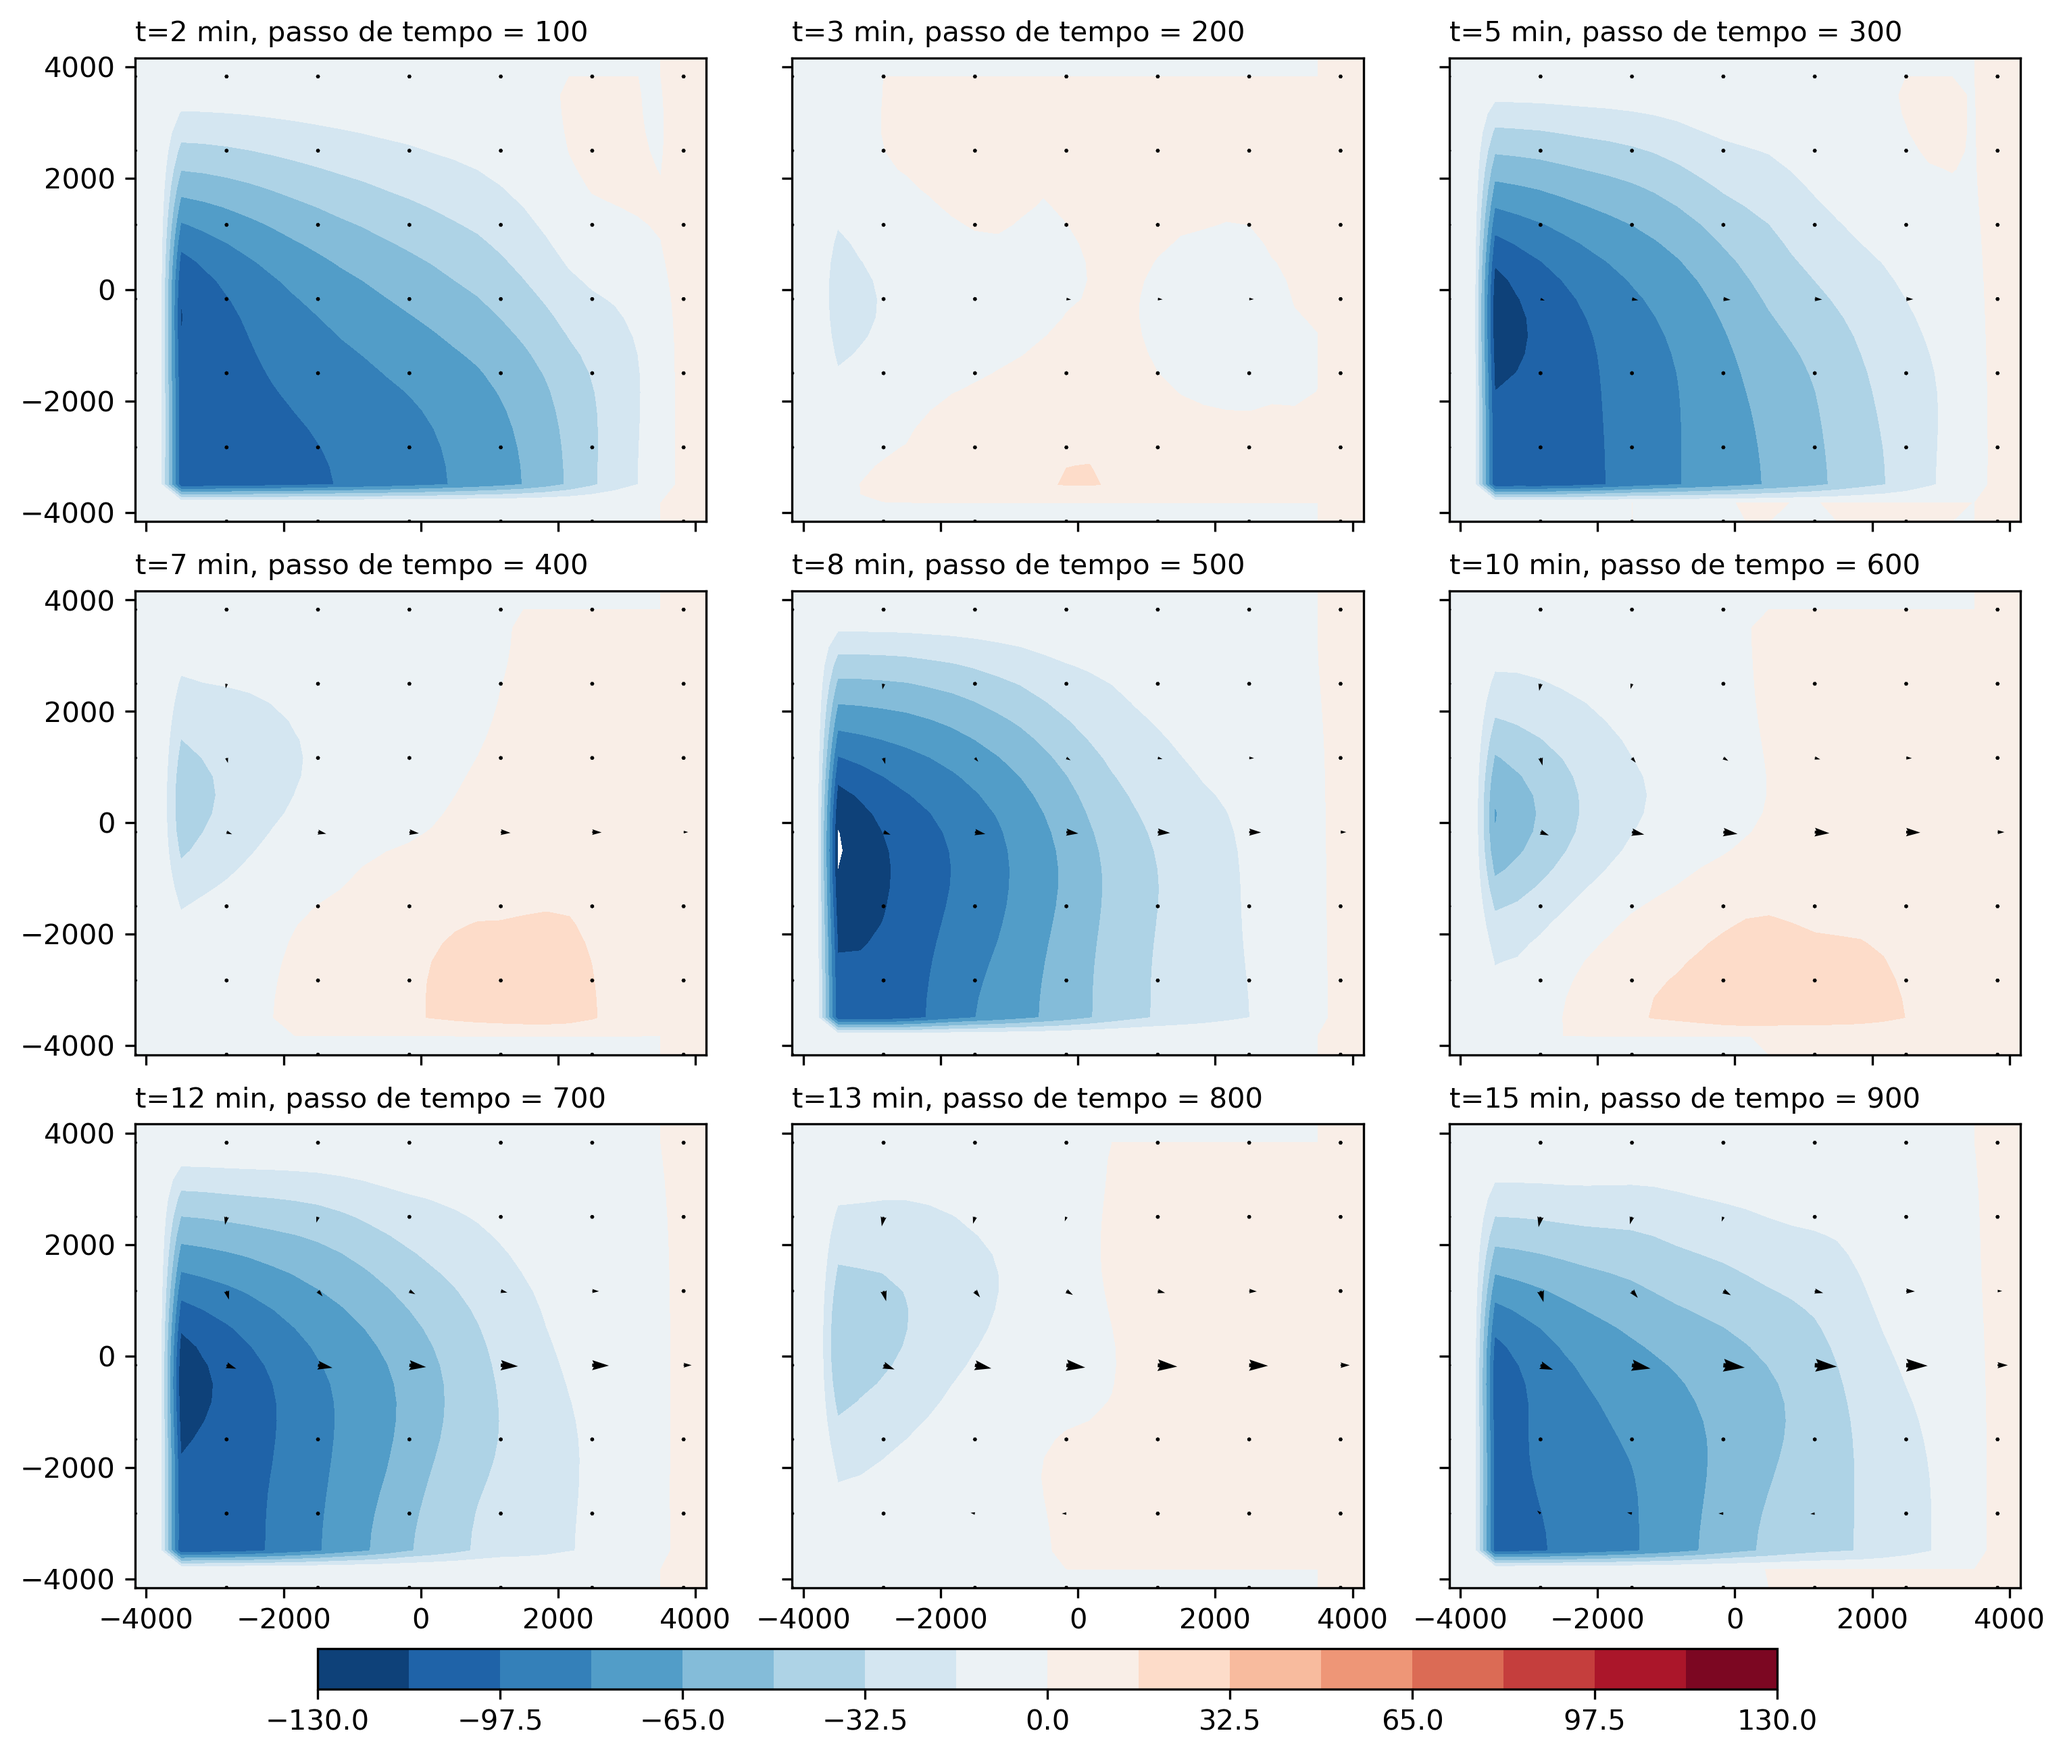
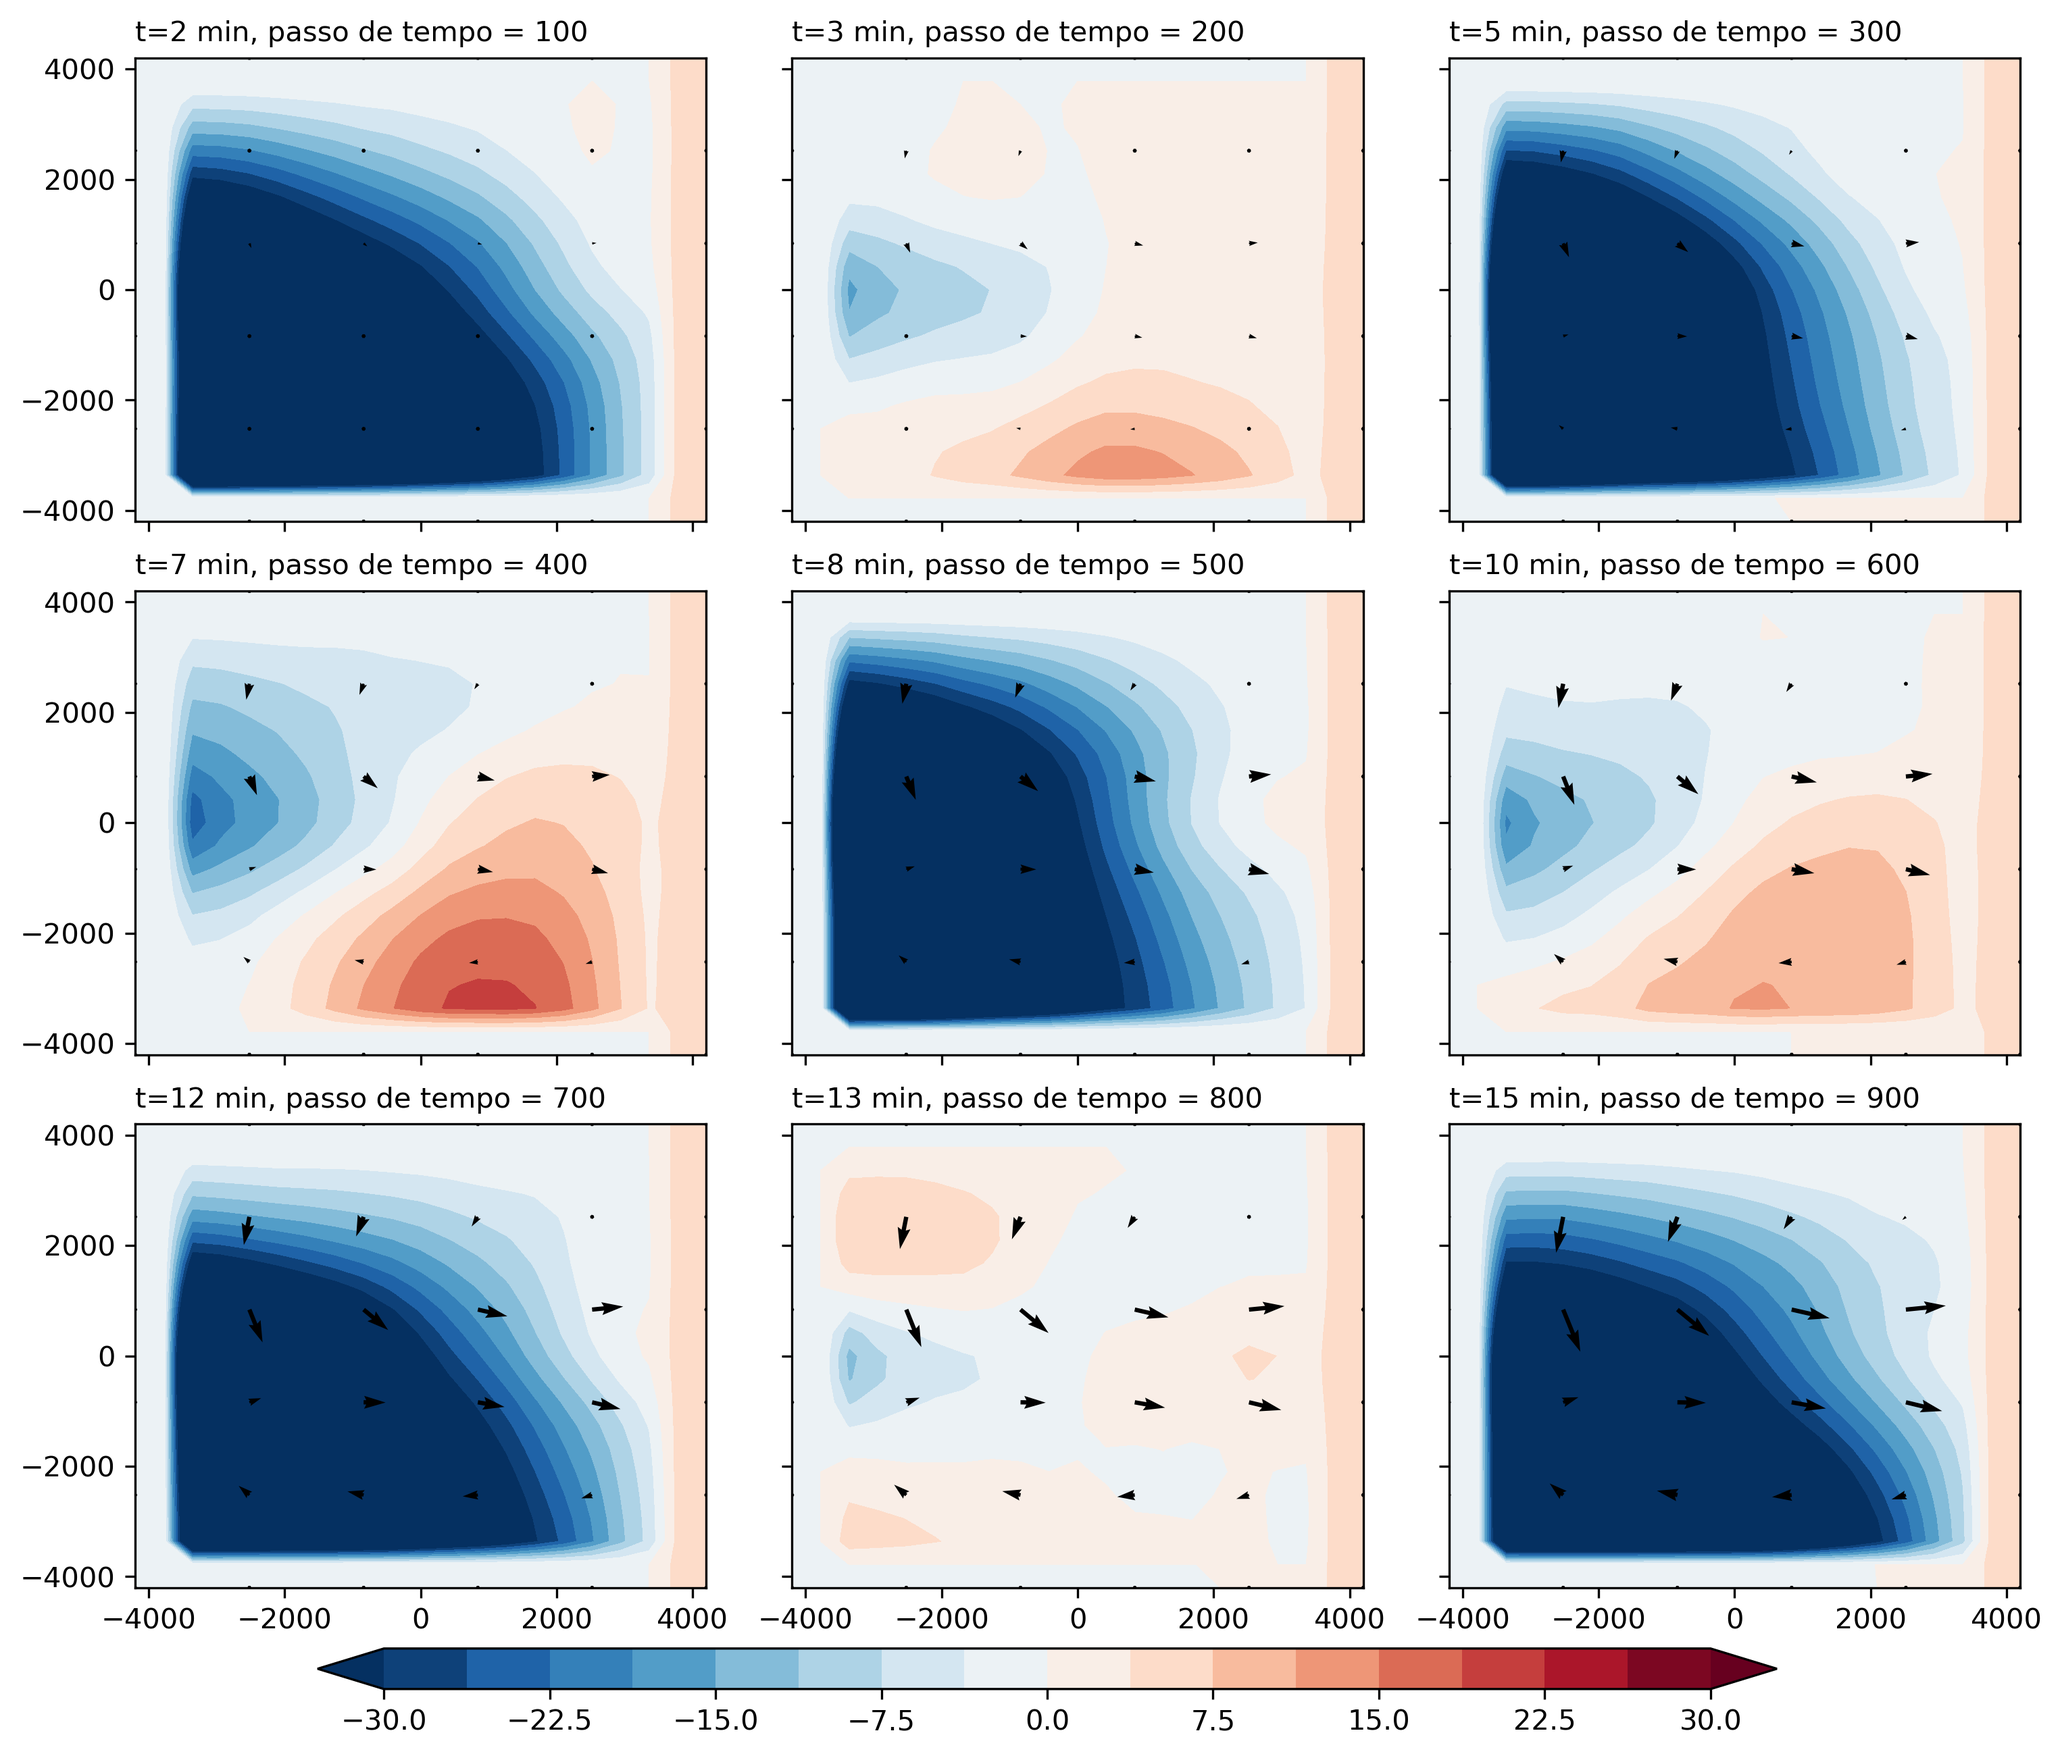
Agua Rasa 2D

diff --git a/Exercicio_4/functions.py b/Exercicio_4/functions.py
@@ -22,7 +22,7 @@ def conditions(scen, lat, Nx, Ny, dx, dy, Nt, Nrx, Nry):
     X = np.transpose(X)                                   # To get plots right
     Y = np.transpose(Y)                                   # To get plots right
 
-    beta = np.zeros((Ny+1, 1))
+    beta = np.zeros((Ny+1))
     div = np.zeros((Nt+1,Nx+1,Ny+1))
     vor = np.zeros((Nt+1,Nx+1,Ny+1))
      
@@ -33,7 +33,7 @@ def conditions(scen, lat, Nx, Ny, dx, dy, Nt, Nrx, Nry):
     h  = np.zeros((Nt+1, Nx+1, Ny+1))  # height variation by time
     Fu = np.zeros((Nt+1, Nx+1, Ny+1))  # Zonal force like ENSO
     
-    Fu[:,:,:] = np.exp(-X**2/(Nrx*4*dx)**2 - Y**2/(Nry*2*dy)**2) 
+    Fu[:,:,:] = np.exp(-X**2/(Nrx*2*dx)**2 - Y**2/(Nry*dy)**2) 
 
     q = 2*np.pi/86400      # angular velocity (2pi/24h) [1/s]
     f = np.zeros((Ny+1))
@@ -47,52 +47,75 @@ def conditions(scen, lat, Nx, Ny, dx, dy, Nt, Nrx, Nry):
         beta[:] = 2*q*np.cos(np.deg2rad(lat_deg[:]))/a
         f[:]=beta[:]*Y[0,:]
             
-    return scen, x, y, X, Y, u, v, h, Fu, f, div, vor
+    return scen, x, y, X, Y, u, v, h, Fu, f, beta, div, vor
 
-def leapfrog(Nx, Ny, Nt, u, v, h, g, dx, dy, dt, H, Fu, f, c, div, vor):
-    """_summary_
+def leapfrog(scen, Nx, Ny, Nt, u, v, h, g, dx, dy, dt, H, Fu, f, beta, y, c, div, vor):
+    """Leapfrog scheme to resolve shallow water equation 2D.
 
     Args:
-        Nx (int): _description_
-        Ny (int): _description_
-        Nt (int): _description_
-        u (array): _description_
-        v (array): _description_
-        h (array): _description_
-        g (float): _description_
-        dx (int): _description_
-        dy (int): _description_
-        dt (int): _description_
+        Nx (int): n° points in x axes
+        Ny (int): n° points in y axes
+        Nt (int): n° time steps
+        u (array): zonal wind vectors
+        v (array): meridional wind vectors
+        h (array): height 
+        g (float): gravitational acceleration
+        dx (int): spatial horizontal resolution at x
+        dy (int): spatial horizontal resolution at y 
+        dt (int): temporal resolution in seconds
         H (int): Mean height
         Fu (array): Constant source at zonal wind.
-        f (array): _description_
-        c (float): _description_
+        f (array): coriolis
+        c (float): sqrt(gH)
         div (array): Divergence
         vor (array): Vorticity
 
     Returns:
-        _type_: _description_
+        arrays: u, v, h, div, vort
     """
     for n in range(1, Nt):
-
-        if n == 1: # Euler-forward scheme
-            for i in range(1, Nx-1):
-                for j in range(1, Ny-1):
-                    u[n,i+1,j]= u[n-1,i+1,j] + dt*(-g*(h[n-1,i+2,j] - h[n-1,i+1,j])/dx + \
-                                f[j]/4*(v[n-1,i,j]+v[n-1,i+1,j]+v[n-1,i+1,j-1]+v[n-1,i,j-1]) + Fu[n,i,j]) 
-                    v[n,i,j+1]= v[n-1,i,j+1] + dt*(-g*(h[n-1,i,j+2] - h[n-1,i,j+1])/dy - \
-                                f[j]/4*(u[n-1,i,j]+u[n-1,i,j+1]+u[n-1,i-1,j+1]+u[n-1,i-1,j]))
-                    h[n,i,j]= h[n-1,i,j] - dt*H*((u[n-1,i,j]-u[n-1,i-1,j])/dx + (v[n-1,i,j]-v[n-1,i,j-1])/dy)
-                    
-        else: # Leap-frog scheme
-            for i in range(1, Nx-1):
-                for j in range(1, Ny-1):
-                    u[n+1,i+1,j]= u[n-1,i+1,j] + 2*dt*(-g*(h[n,i+2,j] - h[n,i+1,j])/dx + \
-                                f[j]/4*(v[n,i,j]+v[n,i+1,j]+v[n,i+1,j-1]+v[n,i,j-1]) + Fu[n,i,j])
-                    v[n+1,i,j+1]= v[n-1,i,j+1] + 2*dt*(-g*(h[n,i,j+2] - h[n,i,j+1])/dy - \
-                                f[j]/4*(u[n,i,j]+u[n,i,j+1]+u[n,i-1,j+1]+u[n,i-1,j]))
-                    h[n+1,i,j]= h[n-1,i,j] - 2*dt*H*((u[n,i,j]-u[n,i-1,j])/dx + (v[n,i,j]-v[n,i,j-1])/dy)
+        if (scen == 'scen1') | (scen == 'scen2'):
+            if n == 1: # Euler-forward scheme
+                for i in range(1, Nx-1):
+                    for j in range(1, Ny-1):
+                        u[n,i+1,j]= u[n-1,i+1,j] + dt*(-g*(h[n-1,i+2,j] - h[n-1,i+1,j])/dx + \
+                                    f[j]/4*(v[n-1,i,j]+v[n-1,i+1,j]+v[n-1,i+1,j-1]+v[n-1,i,j-1]) + Fu[n,i,j]) 
+                        v[n,i,j+1]= v[n-1,i,j+1] + dt*(-g*(h[n-1,i,j+2] - h[n-1,i,j+1])/dy - \
+                                    f[j]/4*(u[n-1,i,j]+u[n-1,i,j+1]+u[n-1,i-1,j+1]+u[n-1,i-1,j]))
+                        h[n,i,j]= h[n-1,i,j] - dt*H*((u[n-1,i,j]-u[n-1,i-1,j])/dx + (v[n-1,i,j]-v[n-1,i,j-1])/dy)
+                        
+            else: # Leap-frog scheme
+                for i in range(1, Nx-1):
+                    for j in range(1, Ny-1):
+                        u[n+1,i+1,j]= u[n-1,i+1,j] + 2*dt*(-g*(h[n,i+2,j] - h[n,i+1,j])/dx + \
+                                    f[j]/4*(v[n,i,j]+v[n,i+1,j]+v[n,i+1,j-1]+v[n,i,j-1]) + Fu[n,i,j])
+                        v[n+1,i,j+1]= v[n-1,i,j+1] + 2*dt*(-g*(h[n,i,j+2] - h[n,i,j+1])/dy - \
+                                    f[j]/4*(u[n,i,j]+u[n,i,j+1]+u[n,i-1,j+1]+u[n,i-1,j]))
+                        h[n+1,i,j]= h[n-1,i,j] - 2*dt*H*((u[n,i,j]-u[n,i-1,j])/dx + (v[n,i,j]-v[n,i,j-1])/dy)
         
+        elif scen == 'scen3': # Beta 
+            if n == 1: # Euler-forward scheme
+                for i in range(1, Nx-1):
+                    for j in range(1, Ny-1):
+                        u[n,i+1,j]= u[n-1,i+1,j] + dt*(-g*(h[n-1,i+2,j] - h[n-1,i+1,j])/dx + \
+                                    beta[j]/4*(y[j]*v[n-1,i,j]*(v[n-1,i,j]+v[n-1,i+1,j]) + \
+                                        y[j-1]*v[n-1,i+1,j-1]*(v[n-1,i+1,j-1]+v[n-1,i,j-1])) + Fu[n,i,j]) 
+                        v[n,i,j+1]= v[n-1,i,j+1] + dt*(-g*(h[n-1,i,j+2] - h[n-1,i,j+1])/dy - \
+                                    beta[j]/4*(y[j]*u[n-1,i,j]*h[n-1,i,j]*(u[n-1,i,j]+u[n-1,i-1,j]) + \
+                                        y[j+1]*u[n-1,i,j+1]*h[n-1,i,j+1]*(u[n-1,i,j+1]+u[n-1,i-1,j+1])))
+                        h[n,i,j]= h[n-1,i,j] - dt*H*((u[n-1,i,j]-u[n-1,i-1,j])/dx + (v[n-1,i,j]-v[n-1,i,j-1])/dy)
+                        
+            else: # Leap-frog scheme
+                for i in range(1, Nx-1):
+                    for j in range(1, Ny-1):
+                        u[n+1,i+1,j]= u[n-1,i+1,j] + 2*dt*(-g*(h[n,i+2,j] - h[n,i+1,j])/dx + \
+                                    beta[j]/4*(y[j]*v[n-1,i,j]*(v[n-1,i,j]+v[n-1,i+1,j]) + \
+                                        y[j-1]*v[n-1,i+1,j-1]*(v[n-1,i+1,j-1]+v[n-1,i,j-1])) + Fu[n,i,j])
+                        v[n+1,i,j+1]= v[n-1,i,j+1] + 2*dt*(-g*(h[n,i,j+2] - h[n,i,j+1])/dy - \
+                                    beta[j]/4*(y[j]*u[n-1,i,j]*h[n-1,i,j]*(u[n-1,i,j]+u[n-1,i-1,j]) + \
+                                        y[j+1]*u[n-1,i,j+1]*h[n-1,i,j+1]*(u[n-1,i,j+1]+u[n-1,i-1,j+1])))
+                        h[n+1,i,j]= h[n-1,i,j] - 2*dt*H*((u[n,i,j]-u[n,i-1,j])/dx + (v[n,i,j]-v[n,i,j-1])/dy)
+                        
         # Radiational as boundary condition (west, north, south)
         # ------------------------------------------------------
         # west

diff --git a/README.md b/README.md
@@ -124,7 +124,7 @@ e. E divirta-se...
 Faça o relatório do Ex. 4 na forma de artigo.
 
 
-![Agua Rasa, H=1 m, plano B](Exercicio_4/fig/leapfrog_1m_scen3.png)
+![Agua Rasa, H=50 m, plano B](Exercicio_4/gifs/leap_50m_scen3.gif)
 
 
 
